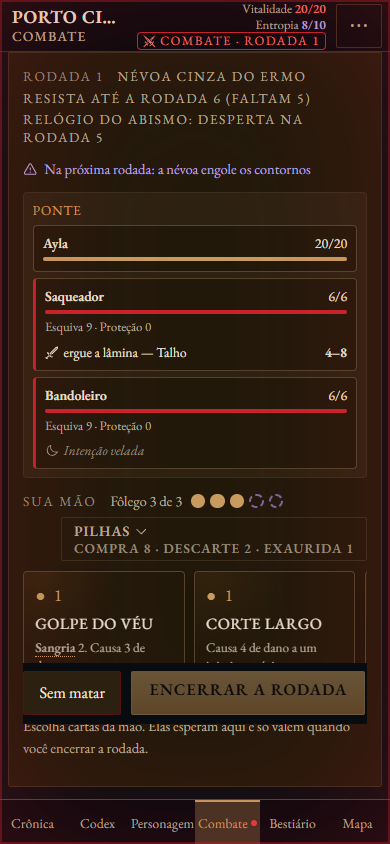
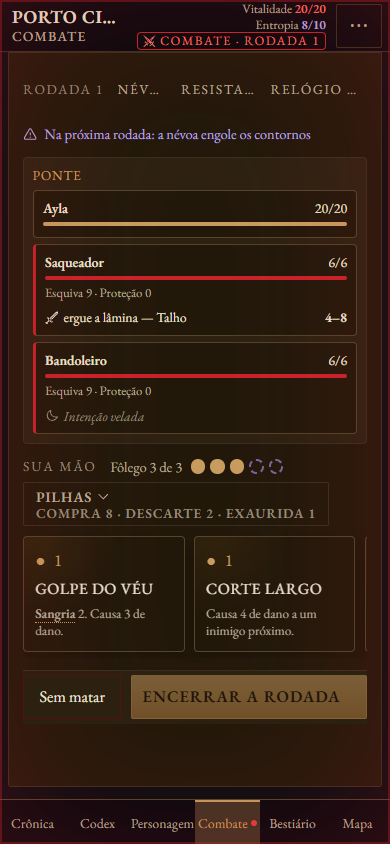
fix(web): SPEC-342 Sol review (sticky bar, Esc, HUD gap, win32-only baseline, integration tests)

Changed region(s): [[0.0615, 0.0616, 0.9538, 0.8934]]

diff --git a/web/e2e/deck-combat-342.spec.ts b/web/e2e/deck-combat-342.spec.ts
@@ -180,6 +180,41 @@ test.describe("baralho 342 mobile 390", () => {
     await expect(page.locator(".deck-card").first()).toBeInViewport({ ratio: 1 });
   });
 
+  test("sticky bar does not cover the first card nor the aim instruction", async ({ page, backend }) => {
+    armDeck(backend);
+    await openCombat(page);
+    const covered = await page.evaluate(() => {
+      const c = document.querySelector(".deck-card")!.getBoundingClientRect();
+      const el = document.elementFromPoint(c.left + c.width / 2, c.bottom - 6);
+      return !el?.closest(".deck-card");
+    });
+    expect(covered, "base da 1ª carta coberta").toBe(false);
+    await page.locator(".deck-card[data-card='golpe']").tap();
+    await page.locator("[data-deck-aim]").evaluate((el) => el.scrollIntoView({ block: "center" }));
+    const aimCovered = await page.evaluate(() => {
+      const r = document.querySelector("[data-deck-aim] span")!.getBoundingClientRect();
+      const el = document.elementFromPoint(r.left + 4, r.top + r.height / 2);
+      return !el?.closest("[data-deck-aim]");
+    });
+    expect(aimCovered, "instrução de mira coberta").toBe(false);
+    const barH = (await page.locator(".play-queue__end").boundingBox())!.height;
+    expect(barH).toBeLessThanOrEqual(64);
+  });
+
+  test("Esc with maneuver aim keeps the queue", async ({ page, backend }) => {
+    armDeck(backend);
+    await openCombat(page);
+    await card(page, "folego").tap();
+    await page.locator("[data-play-confirm]").tap();
+    await expect(page.locator(".play-queue__item")).toHaveCount(1);
+    await page.locator(".ws-combat__fold summary").tap();
+    await page.locator("[data-basic='attack']").tap();
+    await expect(page.locator(".aimbar")).toHaveCount(1);
+    await page.keyboard.press("Escape");
+    await expect(page.locator(".aimbar")).toHaveCount(0);
+    await expect(page.locator(".play-queue__item")).toHaveCount(1);
+  });
+
   test("end bar sticky 390", async ({ page, backend }) => {
     armDeck(backend);
     await openCombat(page);
@@ -191,8 +226,13 @@ test.describe("baralho 342 mobile 390", () => {
   test("coarse targets >= 44", async ({ page, backend }) => {
     armDeck(backend);
     await openCombat(page);
-    await card(page, "golpe").click();
-    await page.getByRole("button", { name: /Alvo: Saqueador/ }).click();
+    await card(page, "golpe").tap();
+    await page.getByRole("button", { name: /Alvo: Saqueador/ }).tap();
+    const bar = await page.evaluate(() => Array.from(document.querySelectorAll(".aimbar[data-deck-aim] button")).map((el) => {
+      const r = el.getBoundingClientRect(); return { n: el.textContent, w: r.width, h: r.height };
+    }));
+    expect(bar.length).toBeGreaterThanOrEqual(2);
+    expect(bar.filter((b) => b.w < 43.5 || b.h < 43.5)).toEqual([]);
     await page.locator("[data-play-confirm]").click();
     await page.locator(".play-queue__item").first().click();
     const small = await page.evaluate(() => {
@@ -325,6 +365,14 @@ test.describe("baralho 342 achados do navegador", () => {
     armDeck(backend);
     await openCombat(page);
     await expect(page.locator(".combatblock .hud__label")).toContainText(/Combate · Rodada 1/);
+    // o espaço tem de aparecer na tela (item flex descarta o espaço do textContent)
+    const gap = await page.evaluate(() => {
+      const label = document.querySelector(".combatblock .hud__label")!;
+      const range = document.createRange();
+      range.selectNodeContents(label.firstChild!);
+      return label.querySelector("span")!.getBoundingClientRect().left - range.getBoundingClientRect().right;
+    });
+    expect(gap).toBeGreaterThanOrEqual(2);
     const clipped = await page.evaluate(() => {
       const rail = document.querySelector(".deck-hand__rail")!;
       const box = rail.getBoundingClientRect();

diff --git a/web/src/workspace.css b/web/src/workspace.css
@@ -404,3 +404,16 @@ details.scene-strip { display: block; }
 }
 /* SPEC-342 B-13c — no celular o painel ja e a superficie: sem moldura dupla no Espolio/Forja */
 .ws-root--mobile .espolio, .ws-root--mobile .forja { border: 0; background: transparent; padding-inline: 0; }
+
+/* SPEC-342 P2-3 — o span do round vira item flex e perde o espaco: gap explicito */
+.combatblock .hud__label { gap: 0.4em; }
+/* SPEC-342 P2-1/P2-6 — celular: faixa de cena numa linha, barra de envio compacta, Pilhas dentro da borda */
+@media (max-width: 640px) {
+  .scene-strip summary { flex-wrap: nowrap; overflow: hidden; white-space: nowrap; }
+  .scene-strip summary > span { min-width: 0; overflow: hidden; text-overflow: ellipsis; flex: 0 1 auto; }
+  .scene-strip summary > span:first-child { flex: none; }
+  .play-queue__end { flex-wrap: nowrap; min-height: 44px; padding: 0.25rem 0; background: var(--surface-2); }
+  .play-queue__submit { flex-direction: row; gap: 0.4rem; flex: 1 1 auto; min-height: 44px; padding: 0.2rem 0.6rem; }
+  .deck-hand__piles { box-sizing: border-box; max-width: 100%; min-width: 0; margin-left: 0; }
+  .deck-hand__counts { white-space: normal; }
+}

diff --git a/web/src/components/combat/DeckCombat.tsx b/web/src/components/combat/DeckCombat.tsx
@@ -146,6 +146,7 @@ export function DeckCombat({ combat, gameId, entropy, busy, touch, nameOf, onEnd
       } else if (event.key === "Enter" && !(event.target as HTMLElement | null)?.closest?.("button, summary, a, [role=button], [role=tab], [tabindex]")) {
         if (queue.length) { event.preventDefault(); end(); }
       } else if (event.key === "Escape") {
+        if (maneuverAim) return; // mira de manobra ativa: o Esc é só dela (useTargeting); a fila fica
         if (armed) { event.preventDefault(); event.stopPropagation(); disarm(); }
         else if (queue.length) { event.preventDefault(); event.stopPropagation(); setQueue([]); setSelected(null); onAnnounce("Fila desfeita."); }
       }

diff --git a/web/e2e/deck-342-baseline.spec.ts b/web/e2e/deck-342-baseline.spec.ts
@@ -37,6 +37,8 @@ async function openGame(page: Page) {
   if (await tab.count()) await tab.click();
 }
 
+test.skip(process.platform !== "win32", "linha de base R24 gerada em win32 antes da Etapa 1; prova local (não roda no CI Linux)");
+
 for (const [width, height] of [[360, 740], [390, 844], [1440, 900]] as const) {
   test.describe(`baseline off @${width}`, () => {
     test.use({ viewport: { width, height } });

diff --git a/tests/test_spec342_nonlethal_jogadas.py b/tests/test_spec342_nonlethal_jogadas.py
@@ -60,3 +60,70 @@ def test_wrapped_player_input_still_marks_nonlethal(monkeypatch):
     old = _decl()
     cbt._mark_nonlethal(old, "Encerrar turno: Guardar, Golpe. Sem matar.")
     assert old.jogadas[1].params["nao_letal"] is True
+
+
+# --- P2-5: integracao com o no real (Baralho + 2 jogadas) -------------------------------
+def _deck_state(monkeypatch, plays, intent):
+    import random
+
+    from langchain_core.messages import HumanMessage
+
+    import api
+    from services import card_piles as cp
+    from tests.test_api_jogadas import GUARDA, _req, _state
+
+    monkeypatch.setenv("RPG_COMBAT_NONLETHAL", "on")
+    monkeypatch.setattr(cp, "FOLEGO_BASE", 3)
+    state = _state(monkeypatch)
+    state["messages"] = [HumanMessage(content=intent)]
+    for e in state["enemies"]:
+        e["vitalidade"] = e["hp"] = 1
+        e["max_vitalidade"] = e["max_hp"] = 1
+        e["esquiva"] = 0
+        e["categoria"] = "lacaio"
+        e["defense"] = 0
+    eid = state["enemies"][0]["id"]
+    steps = [
+        api.PlayStepRequest(card_id=c, target_id="player" if c == GUARDA else eid) for c in plays
+    ]
+    api._apply_action_options(state, _req(jogadas=steps))
+    random.seed(3)
+    return state, eid
+
+
+def test_second_card_kill_becomes_down(monkeypatch):
+    from tests.test_api_jogadas import GOLPE, GUARDA
+
+    seen = {}
+    real = cbt._finish_encounter
+
+    def spy(meta, enemies, outcome, *, loot):
+        seen["enemies"] = enemies
+        return real(meta, enemies, outcome, loot=loot)
+
+    monkeypatch.setattr(cbt, "_finish_encounter", spy)
+    monkeypatch.setattr(cbt, "_narrate", lambda *a, **k: "Fim.")
+    state, eid = _deck_state(
+        monkeypatch, [GUARDA, GOLPE], "Encerro a rodada: Guarda, Golpe. Sem matar."
+    )
+    cbt._combat_node(state)
+    e = next(x for x in seen["enemies"] if x["id"] == eid)
+    assert e.get("incapacitated") and not e.get("dead"), e.get("status")
+
+
+def test_second_card_kill_without_declaration_kills(monkeypatch):
+    from tests.test_api_jogadas import GOLPE, GUARDA
+
+    seen = {}
+    real = cbt._finish_encounter
+
+    def spy(meta, enemies, outcome, *, loot):
+        seen["enemies"] = enemies
+        return real(meta, enemies, outcome, loot=loot)
+
+    monkeypatch.setattr(cbt, "_finish_encounter", spy)
+    monkeypatch.setattr(cbt, "_narrate", lambda *a, **k: "Fim.")
+    state, eid = _deck_state(monkeypatch, [GUARDA, GOLPE], "Encerro a rodada: Guarda, Golpe.")
+    cbt._combat_node(state)
+    e = next(x for x in seen["enemies"] if x["id"] == eid)
+    assert e.get("dead") and not e.get("incapacitated")

diff --git a/tests/test_spec342_scene_view.py b/tests/test_spec342_scene_view.py
@@ -32,7 +32,12 @@ def test_cena_lists_only_public_fields(monkeypatch):
 
 def test_relogio_matches_engine_round(monkeypatch):
     monkeypatch.setenv("RPG_SCENE_CARDS", "on")
-    assert _view(_meta(4, []))["cena"]["relogio"] == {"desde": 5, "teto": 12, "rodada": 4, "ativo": False}
+    assert _view(_meta(4, []))["cena"]["relogio"] == {
+        "desde": 5,
+        "teto": 12,
+        "rodada": 4,
+        "ativo": False,
+    }
     assert _view(_meta(5, []))["cena"]["relogio"]["ativo"] is True
 
 
@@ -45,3 +50,20 @@ def test_cena_relogio_present_without_cards(monkeypatch):
 def test_public_scene_none_without_scene(monkeypatch):
     monkeypatch.setenv("RPG_SCENE_CARDS", "on")
     assert sc.public_scene(None) is None
+
+
+def test_relogio_view_follows_real_engine_rounds(monkeypatch):
+    """P2-5: roda o motor (`run_round`) e confere que `ativo` vira True exatamente na rodada em que
+    `out["abyss_clock"]` aparece."""
+    from tests.test_abyss_clock import _arena, _round
+
+    monkeypatch.setenv("RPG_SCENE_CARDS", "on")
+    scene, actors, sides = _arena()
+    for r in range(1, 8):
+        out = _round(scene, actors, sides, r)
+        rel = sc.public_scene(scene)["relogio"]
+        assert rel["rodada"] == scene["tactical_state"]["round"]
+        assert rel["ativo"] == ("abyss_clock" in out), (r, rel)
+        if out["ended"]:
+            break
+    assert rel["ativo"] is True

diff --git a/specs/SPEC-342-cartas-acabamento-front.md b/specs/SPEC-342-cartas-acabamento-front.md
@@ -388,5 +388,10 @@ Não há structured output novo. O smoke confere que os campos reais chegam ao f
 - R24: baseline cobre fora de combate e em combate a 360/390/1440; o "desfecho" não foi capturado.
 - Texto enviado: backend não depende de "Encerrar turno" (conferido em `api.py`, `agents/`, MockLLM); nenhuma compatibilidade extra foi necessária. `Encerro a rodada:` é só marginália.
 - Mobile 390: a barra de envio sticky cobre parte da base das cartas no 1º paint (a carta está inteira no viewport, mas a barra a sobrepõe); ver `docs/spec342/on-390-combate.png`.
-- Smoke real (§6) NÃO executado pelo executor.
+- Smoke real (§6) NÃO executado pelo executor (exige staging/provider real; fica com o coordenador antes do `done`).
+
+**Correções da revisão Sol (P1-1, P2-1..P2-7)**
+- P1-1: `deck-342-baseline.spec.ts` só roda em win32 (snapshots `*-chromium-win32.png`). **R24 é prova local (win32), não gate de CI Linux.** A frase da §7 ("a comparação roda no CI") vale como prova local no ambiente do executor/coordenador.
+- P2-1: no celular a faixa de cena é 1 linha (truncada), a barra de envio é compacta (1 linha, fundo `--surface-2`); teste com `elementFromPoint` prova que a 1ª carta e a instrução de mira não ficam cobertas. P2-2: Esc com mira de manobra só cancela a mira (fila mantida). P2-3: `gap` no rótulo do HUD + teste de distância medida. P2-4: botões da barra de mira medidos ≥ 44 px. P2-5: integração com o nó real (2ª jogada letal + "Sem matar" → incapacitado; sem declarar → morto) e relógio de cena comparado ao `run_round`. P2-6: "Pilhas" dentro da borda a 390.
+- P2-7: desfecho no baseline R24 não capturado (pendência registrada).
 
